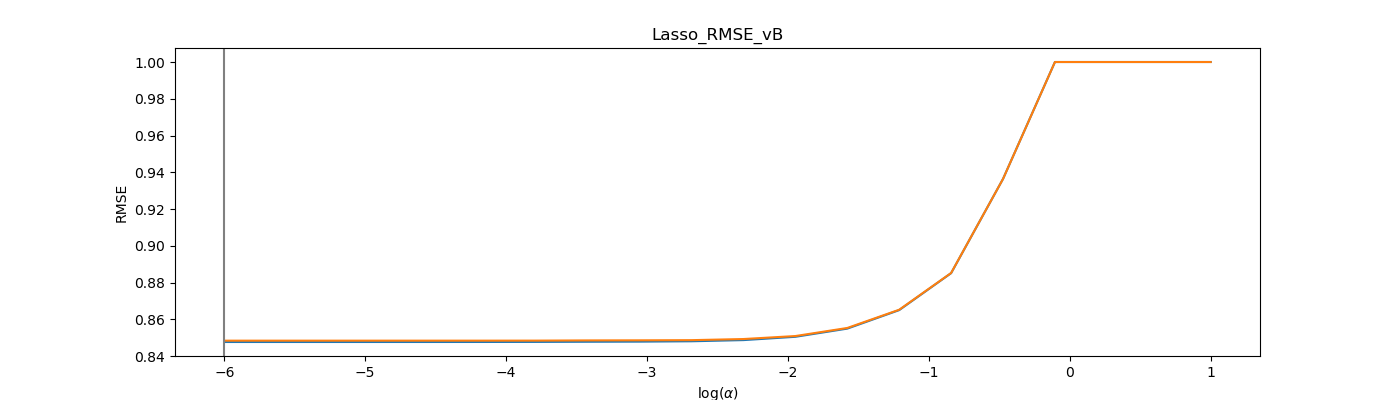
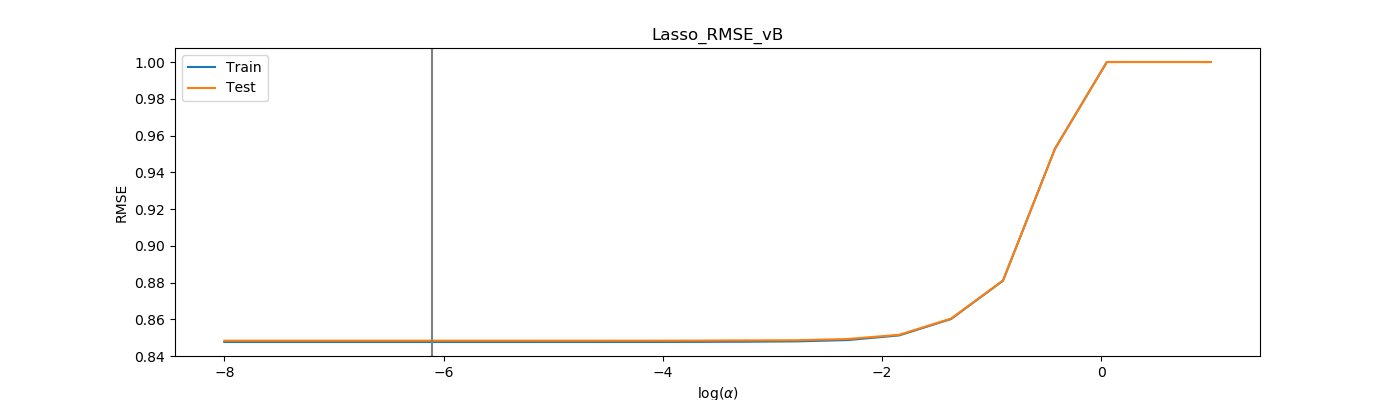
More images and readme

diff --git a/src/predictions.py b/src/predictions.py
@@ -8,6 +8,8 @@ import math
 from utils import XyScaler
 from linear import rmse
 from tabulate import tabulate
+from linear import linear_modeling_test
+import statsmodels.api as sm
 
 def roc_curve(predictions, labels, thresholds):
     Recall = []
@@ -47,16 +49,16 @@ def roc_graph(y_hat,y, thresholds, name):
     plt.close()
 
 def model_regress(X,y,base_estimator,X_final, y_final):
-    standardizer = XyScaler()
-    standardizer.fit(X, y)
-    X_std, y_std = standardizer.transform(X, y)
+    #standardizer = XyScaler()
+    #standardizer.fit(X, y)
+    #X_std, y_std = standardizer.transform(X, y)
     # Fit estimator
     estimator = base_estimator
-    estimator.fit(X_std, y_std)
+    estimator.fit(X, y)
     coeff = estimator.coef_
-    X_std_final, y_std_final = standardizer.transform(X_final, y_final)
-    y_hat_std_final = estimator.predict(X_std_final)
-    X_final, y_hat_final = standardizer.inverse_transform(X_std_final,y_hat_std_final)
+    #X_std_final, y_std_final = standardizer.transform(X_final, y_final)
+    y_hat_final = estimator.predict(X_final)
+    #X_final, y_hat_final = standardizer.inverse_transform(X_std_final,y_hat_std_final)
     rmse_final = rmse(y_final,y_hat_final)
     # Return coefficients
     return coeff, y_hat_final, rmse_final
@@ -65,15 +67,27 @@ if __name__ == "__main__":
     #using ridge regression with dataframe 3 from model set C to get model and coefficients
     df3 = pd.read_pickle('data/reg_model_data_final3.pkl')
     endogc = df3['label_h_point_spread'].values
-    exogsc0 = df3.drop(['label_h_point_spread','label_home_winner','home_fgpct','away_fgpct'],axis=1)
+    exogsc2 = df3.drop(['label_h_point_spread','label_home_winner','year','home_fgp_var','home_ppg_var',
+                        'away_fgp_var','away_ppg_var','home_ps_home','away_ps_away',
+                        'home_fgpct','away_fgpct','home_3ppct','away_3ppct',
+                        'awayteam_awaywp','hometeam_pt_sprd','hometeam_opp_ppg',
+                        'awayteam_pt_sprd','awayteam_opp_ppg','home_pyth_wd','away_pyth_wd',
+                        'hometeam_ps_var', 'awayteam_ps_var','home_ftpct','away_ftpct',
+                        'hpsq','apsq','hometeam_homewp','home_3pa_perposs','away_3pa_perposs'],axis=1)
     #Applying that model to hold-out test data from NCAA Tournaments
     df_final_test = pd.read_pickle('data/tourney_model_data_final3.pkl')
     endog_final = df_final_test['label_h_point_spread'].values
-    exogs_final = df_final_test.drop(['label_h_point_spread','label_home_winner','home_3ppct','away_3ppct','DATE','Home','Away'],axis=1)
+    exogs_final = df_final_test.drop(['label_h_point_spread','label_home_winner','year','home_fgp_var','home_ppg_var',
+                        'away_fgp_var','away_ppg_var','home_ps_home','away_ps_away',
+                        'home_fgpct','away_fgpct','home_3ppct','away_3ppct',
+                        'awayteam_awaywp','hometeam_pt_sprd','hometeam_opp_ppg',
+                        'awayteam_pt_sprd','awayteam_opp_ppg','home_pyth_wd','away_pyth_wd',
+                        'hometeam_ps_var', 'awayteam_ps_var','home_ftpct','away_ftpct',
+                        'hpsq','apsq','hometeam_homewp','home_3pa_perposs','away_3pa_perposs','DATE','Home','Away'],axis=1)
 
-    coeff, y_hat_final, rmse_final = model_regress(exogsc0, endogc,LinearRegression(), exogs_final, endog_final)
+    coeff, y_hat_final, rmse_final = model_regress(exogsc2, endogc,LinearRegression(), exogs_final, endog_final)
 
-    coeff_dict = {"Variables": exogsc0.columns.values, "Coefficients": coeff}
+    coeff_dict = {"Variables": exogsc2.columns.values, "Coefficients": coeff}
     coeff_df = pd.DataFrame(data = coeff_dict)
     print(tabulate(coeff_df.round(4), headers='keys', tablefmt='pipe'))
 

diff --git a/src/linear.py b/src/linear.py
@@ -161,7 +161,7 @@ def regularization_func(exogs, endog, base_estimator, alphas,  title, n_folds=10
             Minmum testing error (float)
             Optimal alpha for minimum testing error (float)
         '''
-    alphas = np.logspace(-6, 1, 20)
+    alphas = alphas
     cv_errors_train, cv_errors_test = train_at_various_alphas(exogs.values, endog, base_estimator, alphas, n_folds=10)
     mean_test_cv_errors = cv_errors_test.mean(axis=0)
     mean_train_cv_errors = cv_errors_train.mean(axis=0)
@@ -187,13 +187,29 @@ def plot_errors_alphas(alphas, opt_alpha, mean_train_errors, mean_test_errors, t
         Returns: Nothing, but saves figure
         '''
     fig, ax = plt.subplots(figsize=(14, 4))
-    ax.plot(np.log10(alphas), mean_train_errors)
-    ax.plot(np.log10(alphas), mean_test_errors)
+    p1 = ax.plot(np.log10(alphas), mean_train_errors, label = "Train")
+    p2 = ax.plot(np.log10(alphas), mean_test_errors, label = "Test")
     ax.axvline(np.log10(opt_alpha), color='grey')
     ax.set_title(title)
     ax.set_xlabel(r"$\log(\alpha)$")
     ax.set_ylabel("RMSE")
+    ax.legend()
     plt.savefig('images/{}.png'.format(title))
+
+def graph_means(ols,lasso,ridge):
+    fig, ax = plt.subplots()
+    N = 3
+    ind = np.arange(N)
+    width = 0.25
+    p1 = ax.bar(ind, ols, width, color='r')
+    p2 = ax.bar(ind+width, lasso, width, color='b')
+    p3 = ax.bar(ind+width*2, ridge, width, color='g')
+    ax.set_title('Min RMSE by Model')
+    ax.set_xticks(ind + width)
+    ax.set_xticklabels(('DF1', 'DF2', 'DF3'))
+    ax.legend((p1[0], p2[0],p3[0]), ('OLS', 'Lasso', 'Ridge'))
+    plt.savefig('images/rmse_mins_by_model.png')
+    plt.close()
 
 if __name__ == "__main__":
     warnings.warn = warn
@@ -268,4 +284,8 @@ if __name__ == "__main__":
     #LR2: Ridge Regression
     ridge_cv_errors_train_c, ridge_cv_errors_test_c, ridge_train_rmse_c, ridge_test_rmse_c, ridge_opt_alpha_c = regularization_func(exogsc0, endogc, Ridge, ridge_alphas,'Ridge_RMSE_vC')
 
-    #CV accuracy rate of top three models (calling the winner)
+    #Graph RMSE of all three models
+    ols_rmse = [ols_test_rmse_a, ols_test_rmse_b, ols_test_rmse_c]
+    lasso_rmse = [lasso_test_rmse_a, lasso_test_rmse_b, lasso_test_rmse_c]
+    ridge_rmse = [ridge_test_rmse_a, ridge_test_rmse_b, ridge_test_rmse_c]
+    graph_means(ols_rmse, lasso_rmse, ridge_rmse)

diff --git a/README.md b/README.md
@@ -44,7 +44,7 @@ df_allstats = games_test.apply(get_season_stats,axis=1)
 
 Next, I attached win-loss record and average point spread up to that point in the season through a similar process.
 
-#### Feature Creation
+## Feature Engineering
 I cleaned up the data and added advanced stats such as [Turnover Percent, Free Throw Factor and Effective Field Goal Percentage](https://www.basketball-reference.com/about/glossary.html) using [feature_eng.py](https://github.com/timmarlowe/smarter-than-nate-silver/blob/master/src/feature_eng.py).
 
 ___Turnover percent___:
@@ -89,70 +89,63 @@ Most data is fairly normally distributed across rows (a row being a team up unti
 The following scatter matrix of the features on each other (using DF2 home-away aggregated features for sake of space) demonstrates collinear relationships between some of the features, including between effective field goal percentage and points per game, pace and field goal attempts, points per game and assists per game. ![Scatter Matrix](https://github.com/timmarlowe/smarter-than-nate-silver/blob/master/images/features_scatter_matrix.png)
 While most still seemed to contain some information of their own, I dropped a few, such as field goal percentage, as it was so closely related to effective field goal percentage.
 
-Finally, scatter plots of features on the label demonstrated that a few of our features had promising relationships with point spread. 
-![EFG and Point Spread](https://github.com/timmarlowe/smarter-than-nate-silver/blob/master/images/diff_efgpct_and_home_point_spread.png) 
+Finally, scatter plots of features on the label demonstrated that a few of our features had promising relationships with point spread.
+![EFG and Point Spread](https://github.com/timmarlowe/smarter-than-nate-silver/blob/master/images/diff_efgpct_and_home_point_spread.png)
 
-However, others seemed to have little to no relationship to point spread 
-![3-points attempted and Point Spread](https://github.com/timmarlowe/smarter-than-nate-silver/blob/master/images/diff_3papg_and_home_point_spread.png) 
+However, others seemed to have little to no relationship to point spread
+![3-points attempted and Point Spread](https://github.com/timmarlowe/smarter-than-nate-silver/blob/master/images/diff_3papg_and_home_point_spread.png)
 
-More can be found in the [images](https://github.com/timmarlowe/smarter-than-nate-silver/tree/master/images) folder.
+More can be found in the [images](https://github.com/timmarlowe/smarter-than-nate-silver/tree/master/images) folder. Further feature engineering is definitely recommended to make this product viable.
 
+## Modeling
+I used three different linear regression models to estimate point spread on each of the databases (OLS, and two regularization models: Lasso and Ridge). Code for modeling can be found in [linear.py](https://github.com/timmarlowe/smarter-than-nate-silver/blob/master/src/linear.py).
 
+Each model was created using 10-fold cross-validation on the training data.
 
+For OLS, I used backwards selection to remove coefficients over time. However, likely due to a high bias low variance model to begin with, the removal of features that were not statistically significant created very little change in RMSE.
 
-|    | Model Variables         |   Model Coefficients |
+Similarly, Lasso models for all three dataframes settled on the extremely small coefficients in the range provided, likely because the model is underfit.
+![Lasso Model DF1](https://github.com/timmarlowe/smarter-than-nate-silver/blob/master/images/Lasso_RMSE_vA.png)
+
+Ridge faired no better:
+![Ridge Model DF1]()
+
+In fact, all three models hovered around the exact same RMSE, no matter the dataframe or adjustment to the exogenous variables:
+![RMSE by Model]()
+
+In the end, because regularization and addition of terms were both ineffective at increasing the explanatory power of the model, I chose an OLS model with fewer terms based on the DF3, the per possession database. This model was as follows when trained on the entire training dataset.
+
+|    | Variables         |   Coefficients |
 |---:|:------------------|---------------:|
-|  0 | year              |        -0.0213 |
-|  1 | home_fgp_var      |         0.0024 |
-|  2 | home_ppg_var      |        -0.0051 |
-|  3 | away_fgp_var      |        -0.0128 |
-|  4 | away_ppg_var      |        -0.0063 |
-|  5 | home_ps_home      |         0.29   |
-|  6 | away_ps_away      |         0.2508 |
-|  7 | home_3ppct        |        -0.0428 |
-|  8 | away_3ppct        |         0.0478 |
-|  9 | home_ftpct        |         0.0509 |
-| 10 | away_ftpct        |        -0.0114 |
-| 11 | home_efgpct       |        -0.1863 |
-| 12 | away_efgpct       |         0.2495 |
-| 13 | hometeam_wp       |         0.0512 |
-| 14 | hometeam_homewp   |        -0.0421 |
-| 15 | awayteam_wp       |        -0.042  |
-| 16 | awayteam_awaywp   |         0.0164 |
-| 17 | hometeam_pt_sprd  |        -0.1518 |
-| 18 | hometeam_opp_ppg  |        -0.022  |
-| 19 | awayteam_pt_sprd  |        -0.1398 |
-| 20 | awayteam_opp_ppg  |         0.0497 |
-| 21 | home_pyth_wd      |         0.0459 |
-| 22 | away_pyth_wd      |         0.0006 |
-| 23 | hometeam_ps_var   |         0.0136 |
-| 24 | awayteam_ps_var   |        -0.0052 |
-| 25 | home_tovpct       |        -0.1709 |
-| 26 | away_tovpct       |         0.2696 |
-| 27 | home_ft_factor    |        -0.2454 |
-| 28 | away_ft_factor    |         0.1702 |
-| 29 | home_dreb_perposs |         0.0367 |
-| 30 | away_dreb_perposs |        -0.0306 |
-| 31 | home_oreb_perposs |         0.1397 |
-| 32 | away_oreb_perposs |        -0.2191 |
-| 33 | home_foul_perposs |         0.0224 |
-| 34 | away_foul_perposs |        -0.0187 |
-| 35 | home_p_perposs    |         0.4522 |
-| 36 | away_p_perposs    |        -0.5374 |
-| 37 | home_stl_perposs  |         0.0348 |
-| 38 | away_stl_perposs  |        -0.0356 |
-| 39 | home_3pa_perposs  |         0.0072 |
-| 40 | away_3pa_perposs  |        -0.0023 |
-| 41 | home_fga_perposs  |        -0.3774 |
-| 42 | away_fga_perposs  |         0.5197 |
-| 43 | home_fta_perposs  |         0.0504 |
-| 44 | away_fta_perposs  |         0.0819 |
-| 45 | home_a_perposs    |         0.0267 |
-| 46 | away_a_perposs    |        -0.0174 |
-| 47 | home_b_perposs    |         0.0399 |
-| 48 | away_b_perposs    |        -0.031  |
-| 49 | hpsq              |        -0.0081 |
-| 50 | apsq              |         0.0149 |
+|  0 | home_efgpct       |      -123.072  |
+|  1 | away_efgpct       |        85.1522 |
+|  2 | hometeam_wp       |        11.6049 |
+|  3 | awayteam_wp       |        -9.6597 |
+|  4 | home_tovpct       |       -90.1705 |
+|  5 | away_tovpct       |       156.767  |
+|  6 | home_ft_factor    |       -60.0435 |
+|  7 | away_ft_factor    |        36.0149 |
+|  8 | home_dreb_perposs |        33.9899 |
+|  9 | away_dreb_perposs |       -36.7376 |
+| 10 | home_oreb_perposs |        61.553  |
+| 11 | away_oreb_perposs |       -93.3587 |
+| 12 | home_foul_perposs |        14.5427 |
+| 13 | away_foul_perposs |       -15.0109 |
+| 14 | home_p_perposs    |        95.4668 |
+| 15 | away_p_perposs    |       -71.0021 |
+| 16 | home_stl_perposs  |        50.3138 |
+| 17 | away_stl_perposs  |       -50.2611 |
+| 18 | home_fga_perposs  |      -140.855  |
+| 19 | away_fga_perposs  |       156.897  |
+| 20 | home_fta_perposs  |       -28.0587 |
+| 21 | away_fta_perposs  |        35.862  |
+| 22 | home_a_perposs    |        13.2161 |
+| 23 | away_a_perposs    |        -8.4026 |
+| 24 | home_b_perposs    |        27.5975 |
+| 25 | away_b_perposs    |       -22.3028 |
+
+It is still clearly both over-fit and under-fit.
+
 
 
 |    |   Precision |   Recall |   Accuracy |   Specificity |   False Positive Rate |
